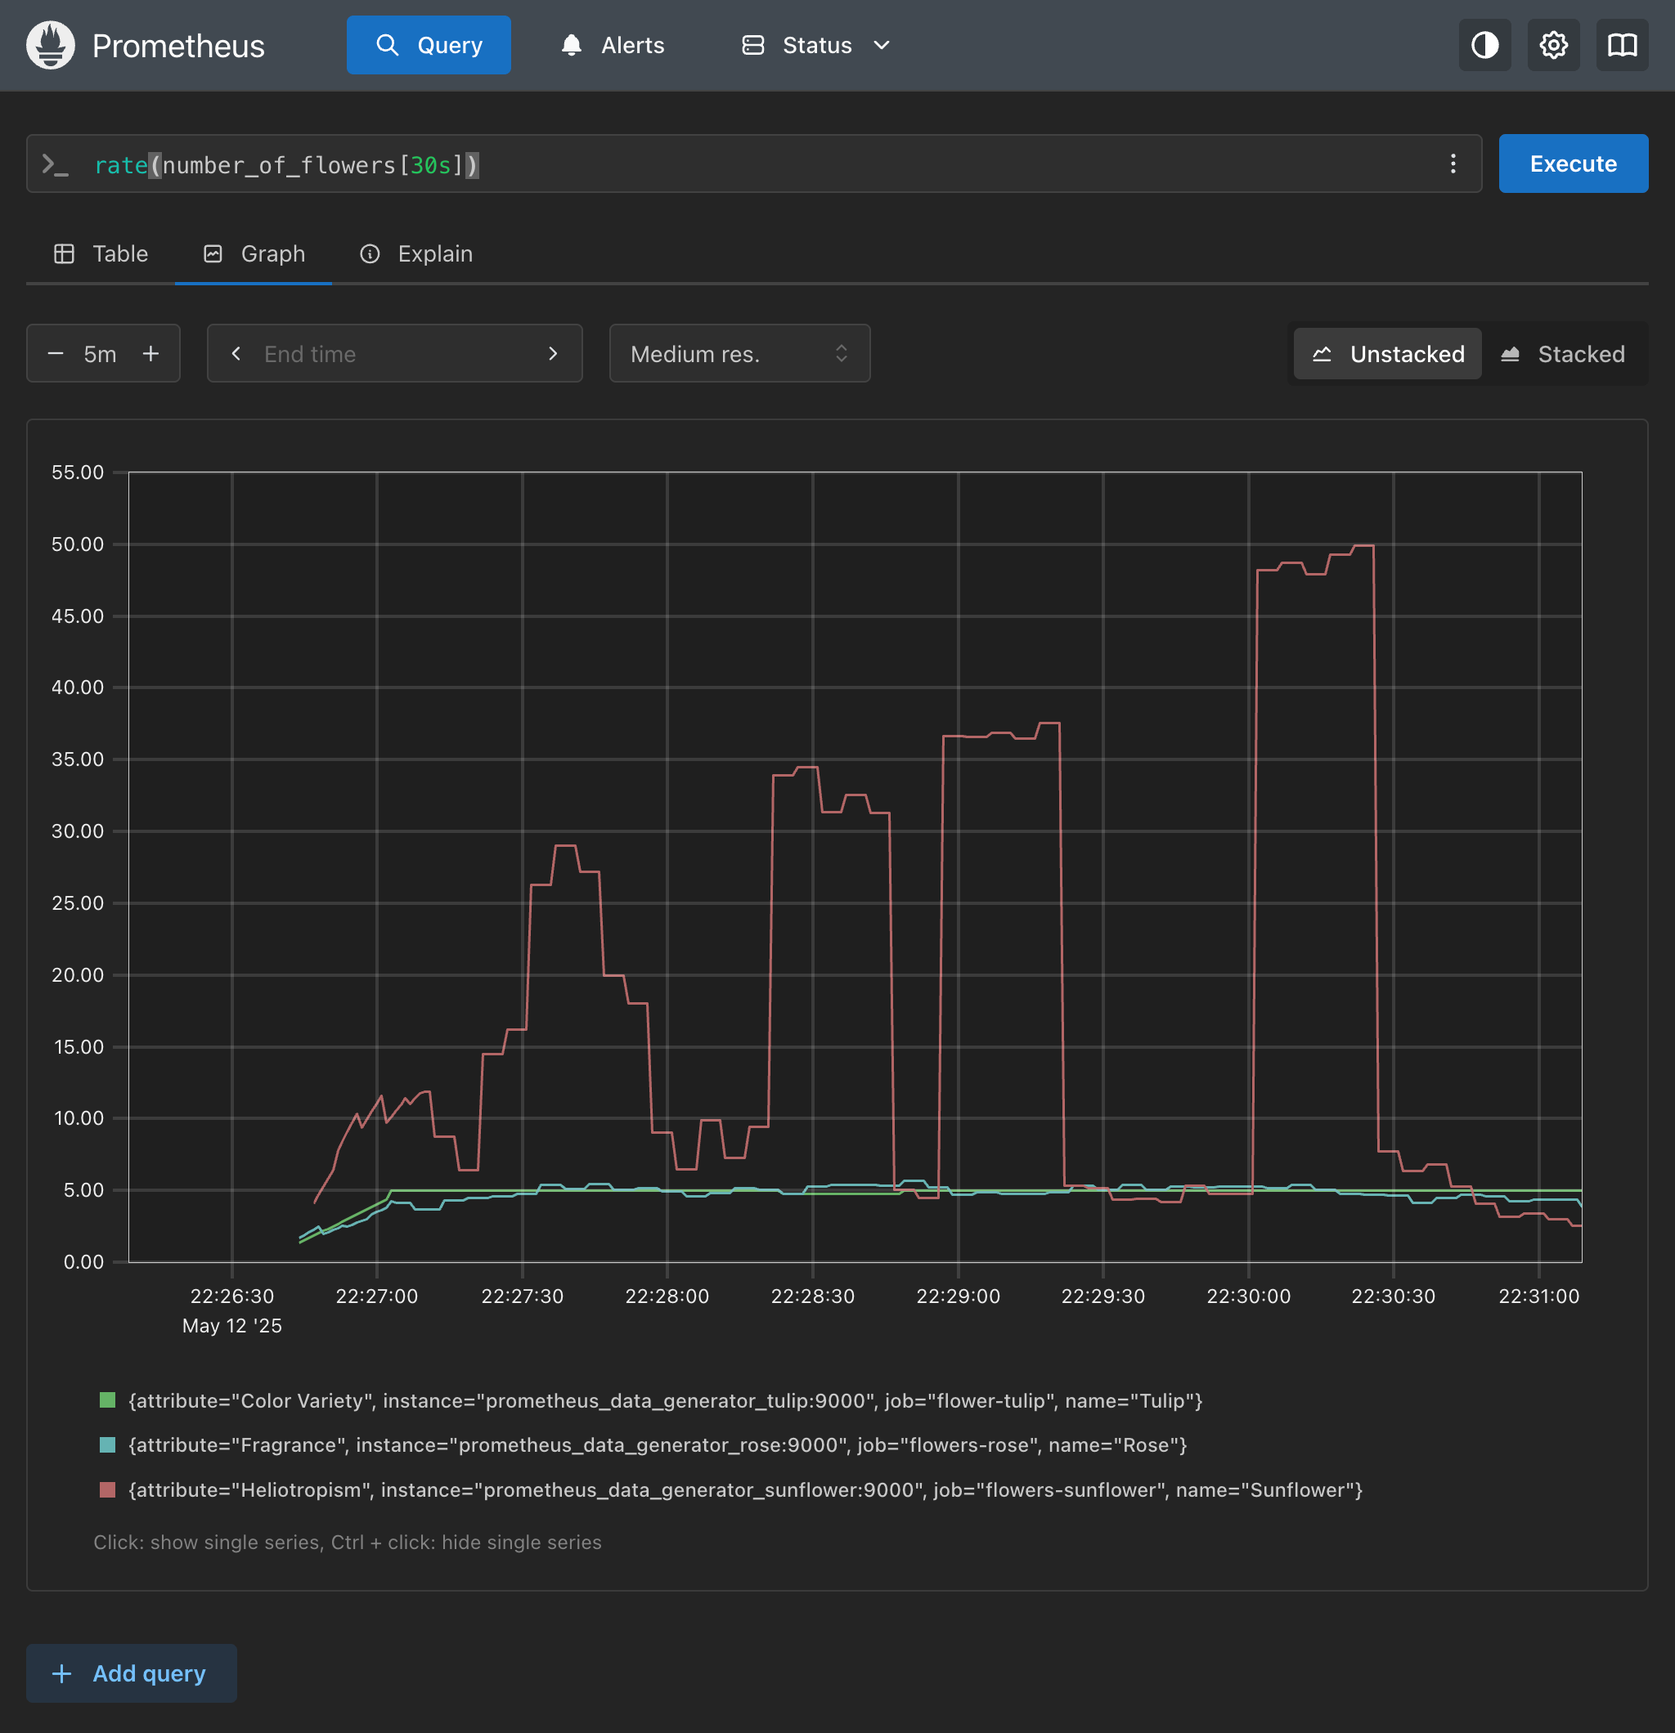
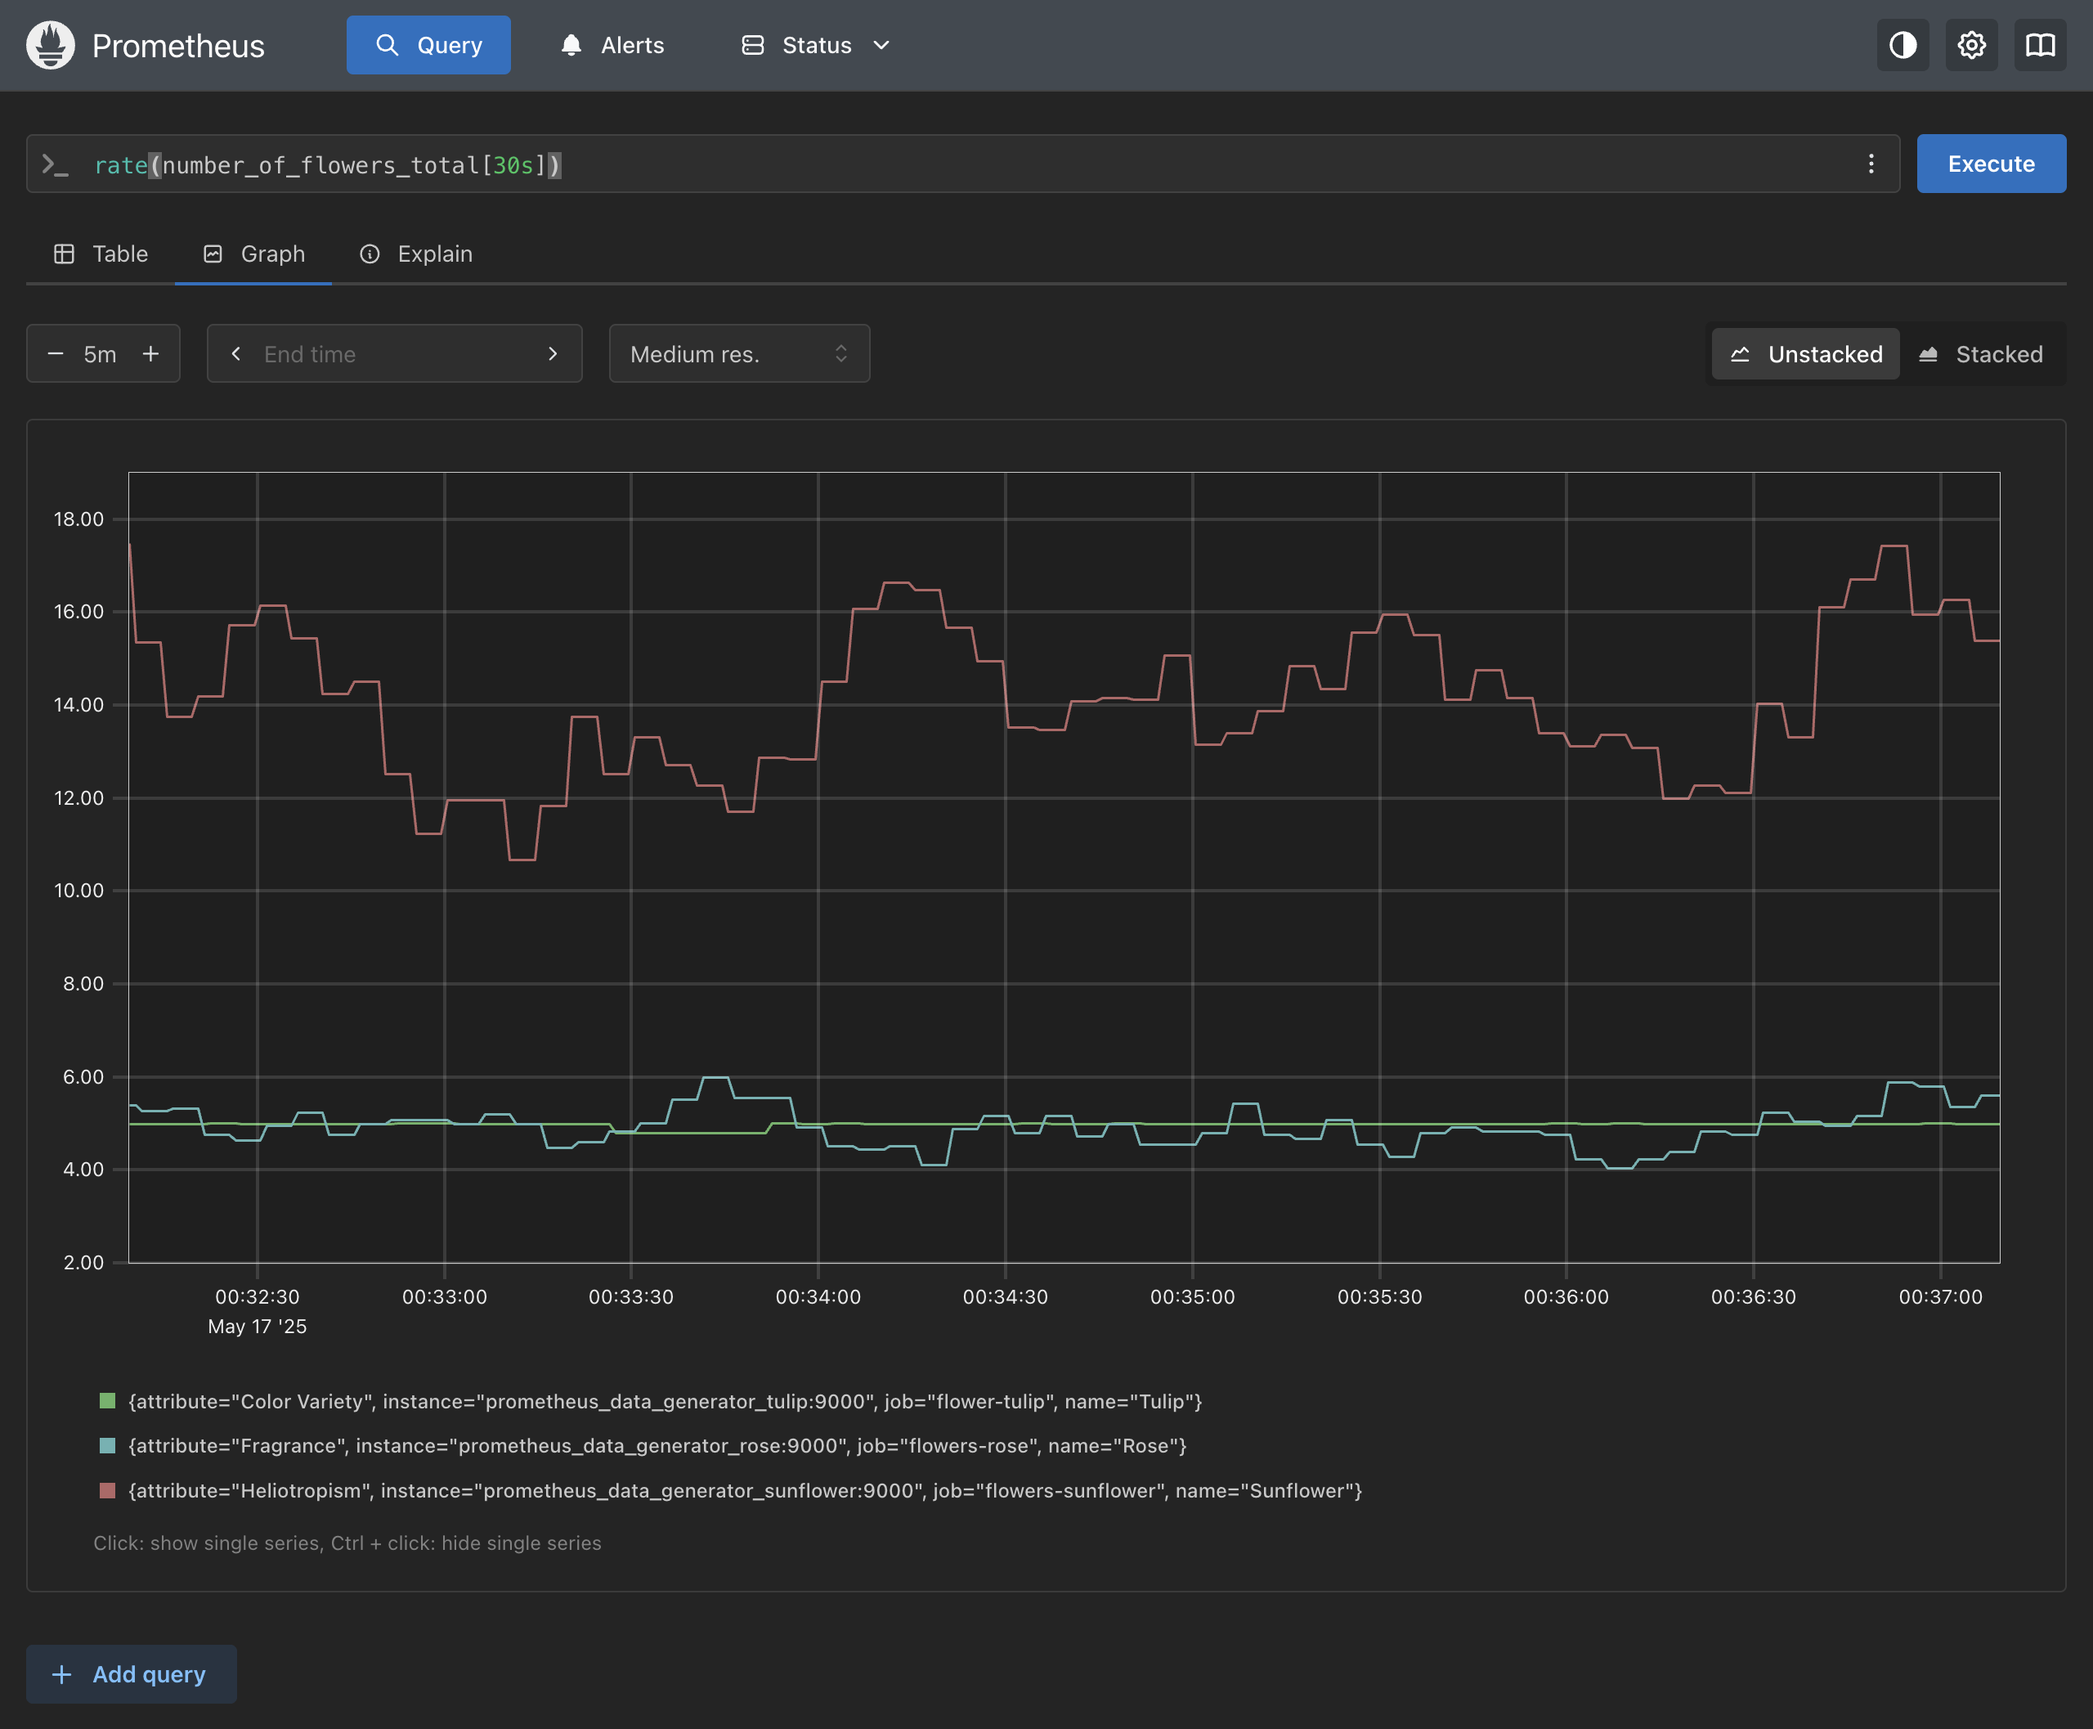
Add Grafana to Prometheus

diff --git a/2025/prometheus/README.md b/2025/prometheus/README.md
@@ -17,7 +17,7 @@ The project consists of four services:
 - `prometheus`: The main service that collects metrics from the data generator services. See [config](prometheus.yml) for details.
 
 ```mermaid
-graph TB
+graph LR
     prometheus --> prometheus_data_generator_rose
     prometheus --> prometheus_data_generator_sunflower
     prometheus --> prometheus_data_generator_tulip
@@ -55,14 +55,14 @@ Visit this URL to interact with Prometheus
 
 Run the following query to see the absolute values
 ```promql
-number_of_flowers
+number_of_flowers_total
 ```
 
 ![Prometheus Query](assets/prometheus-query.png)
 
 You can also filter by label
 ```promql
-number_of_flowers{name="Tulip"}
+number_of_flowers_total{name="Tulip"}
 ```
 
 Switch to the Graph tab to see the visual representation of the metrics over time.
@@ -71,10 +71,48 @@ Switch to the Graph tab to see the visual representation of the metrics over tim
 
 Run the following query to see how much the values change. 
 ```promql
-rate(number_of_flowers[30s])
+rate(number_of_flowers_total[30s])
 ```
 
 ![Prometheus Rate](assets/prometheus-graph-rate.png)
+
+## Grafana
+
+Visit this URL to interact with Grafana
+- http://localhost:3000
+
+The default credentials are:
+- username: admin
+- password: admin
+
+### Configure Data Sources
+
+Go to Connections -> Data Sources and add Prometheus as a data source.
+Set the Prometheus server URL to `http://prometheus:9090/`. Scroll down and click `Save & test`.
+
+### Configure Dashboards
+
+Go to Dashboards and create new dashboard by adding a visualization and selecting prometheus as the data source.
+Set the metric to `number_of_flowers_total`. Set the operation to Range functions -> Rate and Range to `$__rate_interval`.
+Save the dashboard.
+
+![Grafana Dashboard](assets/grafana.png)
+
+### Backup and Restore Grafana data
+
+To backup the Grafana data, run the following command while the service is running:
+
+```bash
+docker cp prometheus-grafana-1:/var/lib/grafana/grafana.db grafana.db --archive
+```
+
+To restore the Grafana data, run the following command while the service is running:
+
+```bash
+docker cp grafana.db prometheus-grafana-1:/var/lib/grafana/grafana.db --archive
+```
+
+Restart the service to complete the restore process.
 
 ## Cleanup
 
